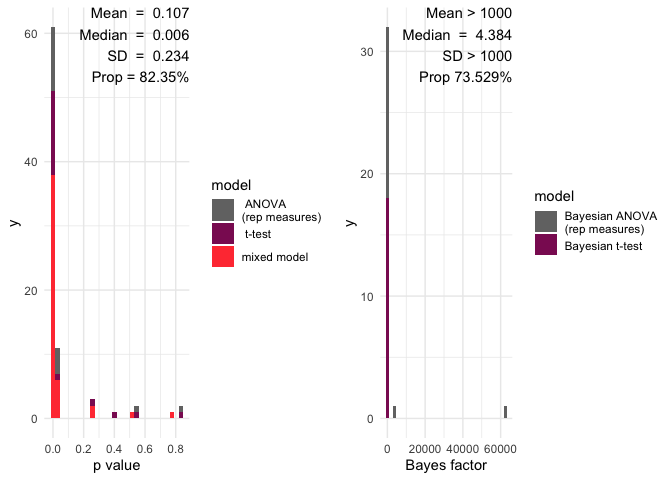
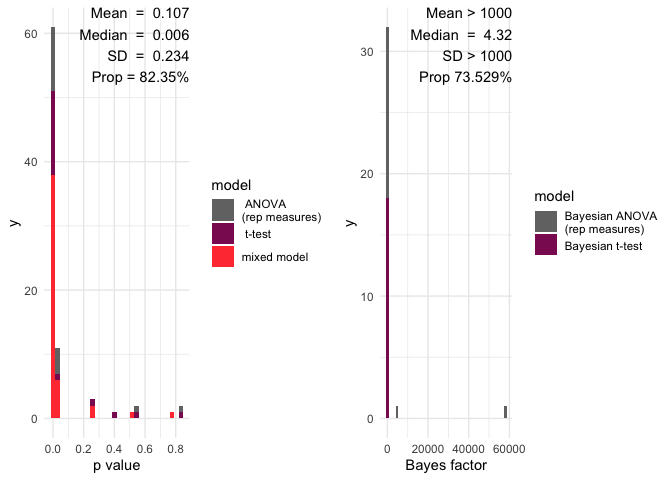
Removed redundant badge

Changed region(s): [[0.5938, 0.9062, 0.7812, 0.9688], [0.5938, 0.0625, 0.7812, 0.0938], [0.5625, 0.8438, 0.5938, 0.875]]

diff --git a/README.md b/README.md
@@ -5,8 +5,6 @@
 [![Travis build
 status](https://travis-ci.org/AngelosPsy/multifear.svg?branch=master)](https://travis-ci.org/AngelosPsy/multifear)
 [![codecov](https://codecov.io/gh/AngelosPsy/multifear/branch/master/graph/badge.svg)](https://codecov.io/gh/AngelosPsy/multifear)
-[![R build
-status](https://github.com/AngelosPsy/multifear/workflows/R-CMD-check/badge.svg)](https://github.com/AngelosPsy/multifear/actions)
 [![R-CMD-check](https://github.com/AngelosPsy/multifear/workflows/R-CMD-check/badge.svg)](https://github.com/AngelosPsy/multifear/actions)
 <!-- badges: end -->
 
@@ -337,9 +335,9 @@ function and you will get:
 ``` r
 multifear::inference_cs(res_multi, na.rm = TRUE)
 #>   mean_p_value median_p_value sd_p_value prop_p_value mean_bf_value
-#> 1    0.1074323     0.00638261  0.2341194     82.35294       1982.91
+#> 1    0.1074323     0.00638261  0.2341194     82.35294      1850.999
 #>   median_bf_value sd_bf_value prop_bf_value
-#> 1        4.384012    10712.11      73.52941
+#> 1        4.319848    9944.411      73.52941
 ```
 
 The inference when we have groups follow:
@@ -347,9 +345,9 @@ The inference when we have groups follow:
 ``` r
 multifear::inference_cs(res_multi_group, na.rm = TRUE)
 #>   mean_p_value median_p_value sd_p_value prop_p_value mean_bf_value
-#> 1    0.3538675      0.3331223   0.295618     17.64706      5.791675
+#> 1    0.3538675      0.3331223   0.295618     17.64706      5.784902
 #>   median_bf_value sd_bf_value prop_bf_value
-#> 1       0.5895996    7.595155      41.17647
+#> 1       0.5583615    7.599891      41.17647
 ```
 
 And here we have a barplot of the results:
